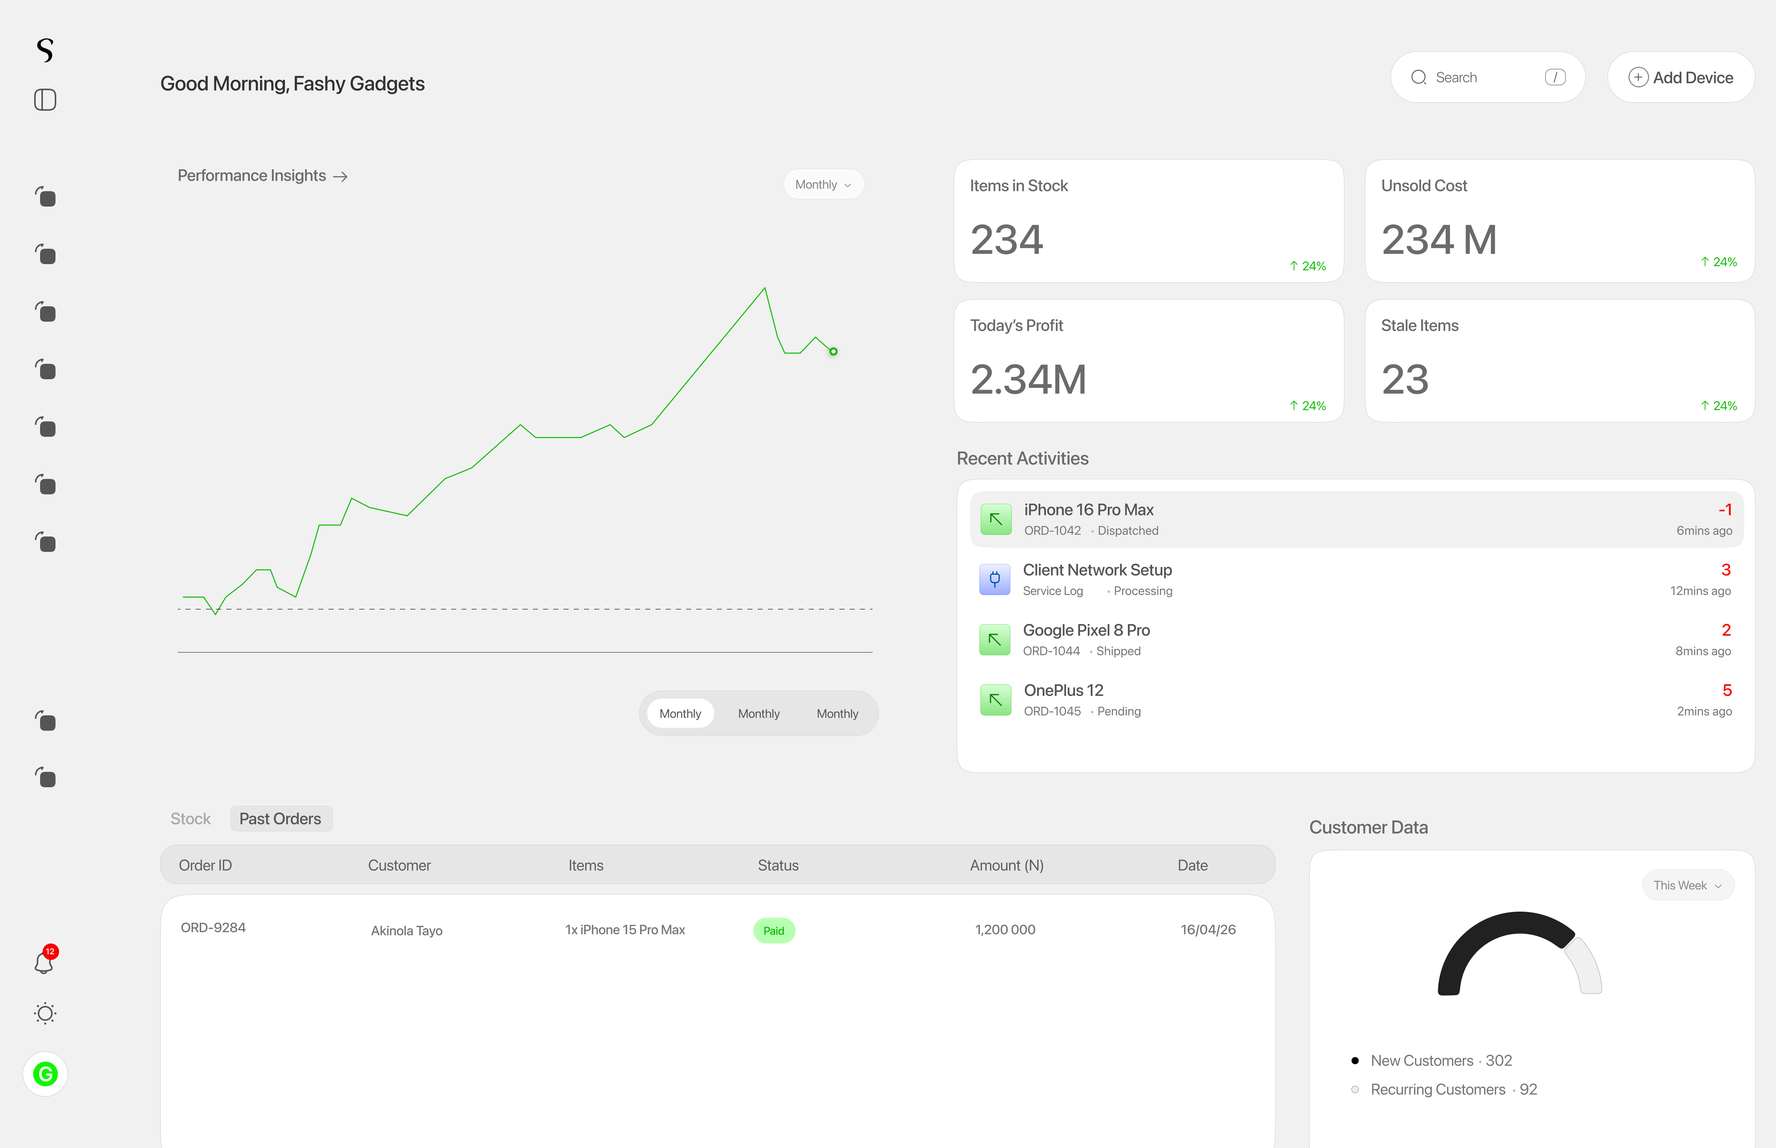
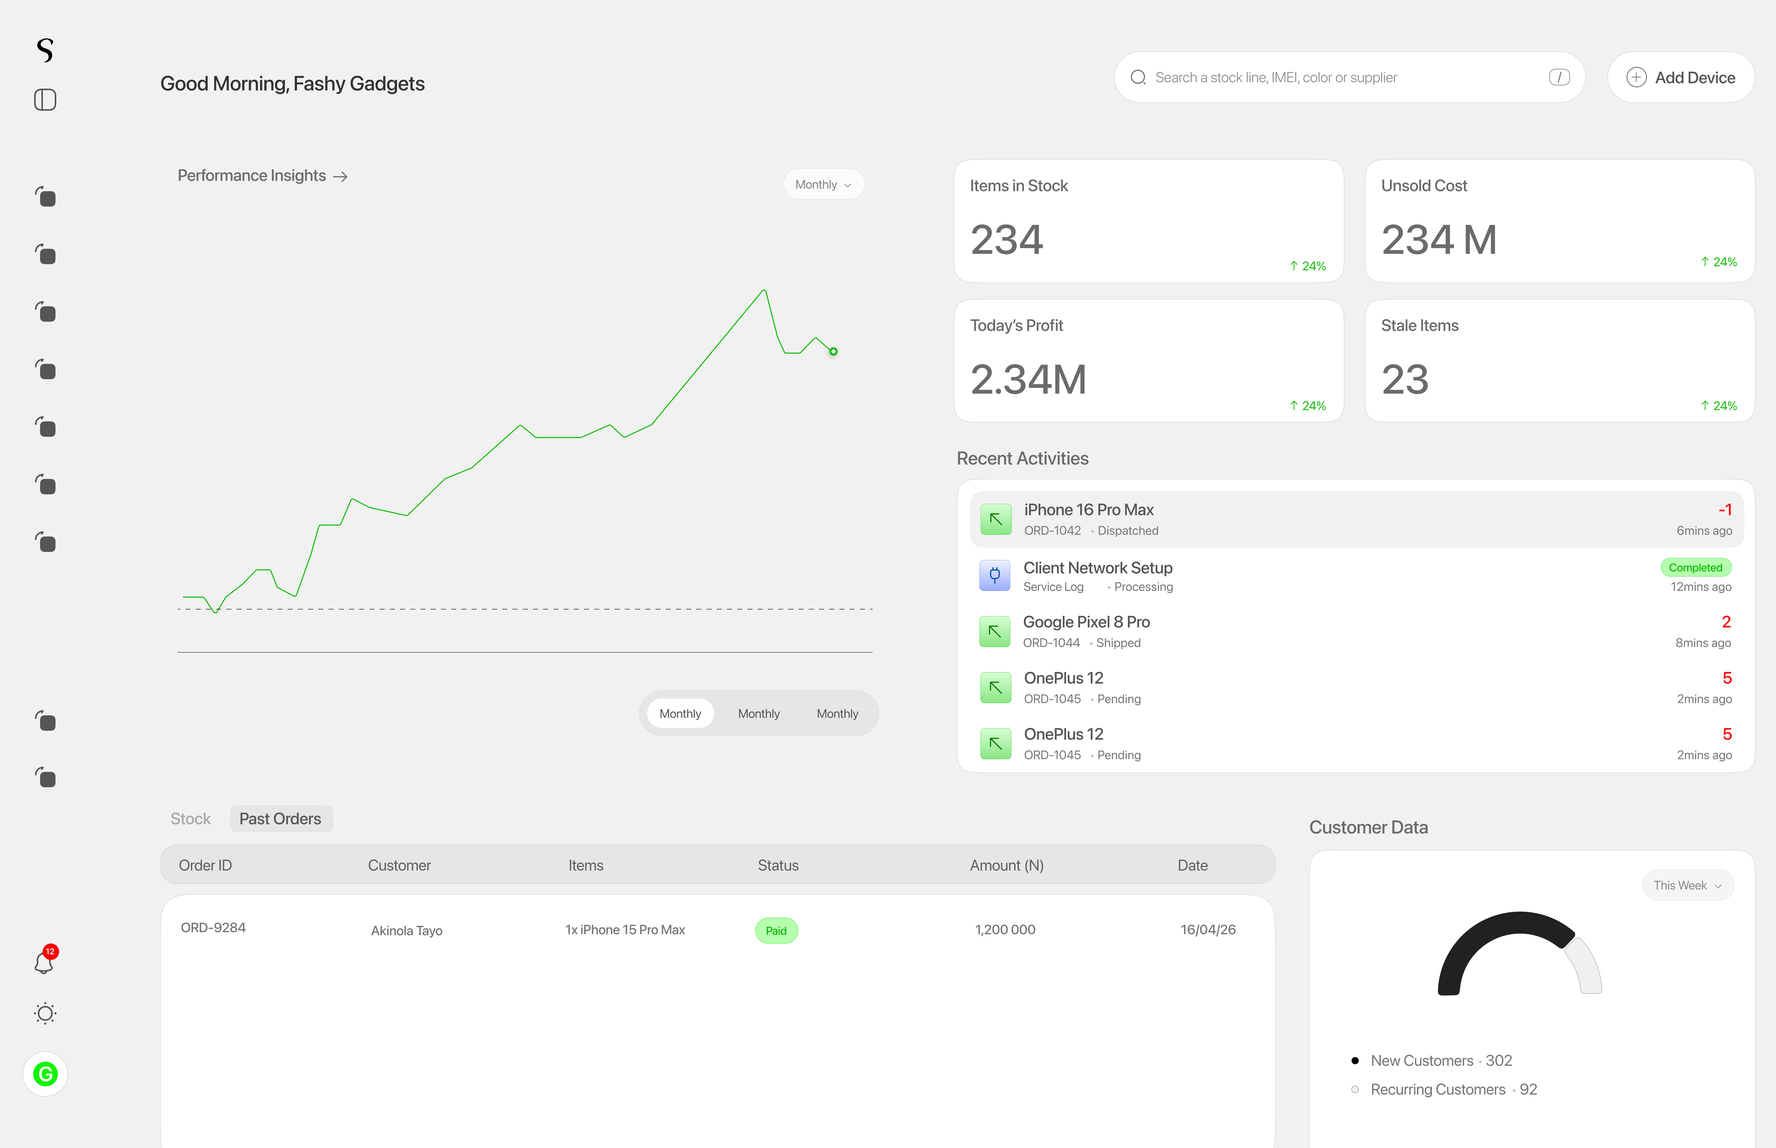
feat: update hero background and mockup, streamline features & about copy, and update CTA to Get Started

diff --git a/src/components/Features/KeepMovingSection.tsx b/src/components/Features/KeepMovingSection.tsx
@@ -25,26 +25,25 @@ export const KeepMovingSection: React.FC = () => {
         {/* Section Header */}
         <div className="flex flex-col items-center text-center max-w-[620px] mx-auto mb-12 md:mb-20">
           <h2 className="text-[#121316] font-medium tracking-tight text-[28px] sm:text-[36px] md:text-[42px] leading-[1.1] mb-4">
-            Everything your store does, in one place
+            Built for successful gadget stores
           </h2>
           <p className="text-gray-500 text-[16px] sm:text-[18px] leading-[1.6]">
-            From scanning an IMEI to settling supplier debt, from customer receipts to price adjustments — Suite tracks it all so nothing slips through the counter.
+            Track stock by IMEI, close sales faster at the counter, and see your daily profits clearly across every branch.
           </p>
         </div>
 
         {/* 3-Card Grid with Active/Inactive Mobile Accordion & Desktop Highlights */}
         <div className="grid grid-cols-1 md:grid-cols-3 gap-5 sm:gap-6 lg:gap-8 items-stretch">
 
-          {/* Card 0: Everyone on their own login */}
+          {/* Card 0: Smart team permissions */}
           <div
             onClick={() => setActiveCard(0)}
-            className={`bg-white rounded-[28px] p-6 sm:p-8 flex flex-col justify-between transition-all duration-300 cursor-pointer ${
-              activeCard === 0
+            className={`bg-white rounded-[28px] p-6 sm:p-8 flex flex-col justify-between transition-all duration-300 cursor-pointer ${activeCard === 0
                 ? 'border-2 border-[#858585] shadow-[0_8px_30px_rgba(133,133,133,0.12)]'
                 : 'border border-gray-200/80 shadow-[0_2px_12px_rgba(0,0,0,0.02)] hover:border-[#858585]/50'
-            }`}
+              }`}
           >
-            {/* Top Interactive Toggle List: Hidden on mobile when inactive, visible when active or on desktop */}
+            {/* Top Interactive Toggle List */}
             <div className={`${activeCard === 0 ? 'block' : 'hidden md:block'} bg-[#FAF9F7]/80 rounded-2xl p-4 mb-6 sm:mb-8 border border-gray-100 space-y-3 transition-all duration-200`}>
 
               {/* Row 1 */}
@@ -55,7 +54,7 @@ export const KeepMovingSection: React.FC = () => {
                   </div>
                   <div className="min-w-0">
                     <div className="text-[13px] font-medium text-gray-800 leading-none mb-1 truncate">Chuka</div>
-                    <div className="text-[11px] text-gray-400 truncate">Sells, cannot change a price</div>
+                    <div className="text-[11px] text-gray-400 truncate">Sales rep · Counter sales</div>
                   </div>
                 </div>
                 <div className="flex items-center gap-2 shrink-0">
@@ -73,7 +72,7 @@ export const KeepMovingSection: React.FC = () => {
                 </div>
               </div>
 
-              {/* Row 2: highlighted, with who added them */}
+              {/* Row 2 */}
               <div className="flex items-center justify-between gap-3 bg-white p-2.5 rounded-xl border border-gray-100 shadow-sm">
                 <div className="flex items-center gap-2.5 min-w-0">
                   <div className="w-7 h-7 rounded-lg bg-gray-100 text-[#858585] flex items-center justify-center shrink-0">
@@ -81,10 +80,10 @@ export const KeepMovingSection: React.FC = () => {
                   </div>
                   <div className="min-w-0">
                     <div className="text-[13px] font-medium text-gray-800 leading-none mb-1 truncate">Amina</div>
-                    <div className="text-[11px] text-gray-400 truncate mb-1">Manager — approves below floor</div>
+                    <div className="text-[11px] text-gray-400 truncate mb-1">Store manager · Special deals</div>
                     <div className="inline-flex items-center gap-1 bg-gray-100 px-1.5 py-0.5 rounded text-[10px] text-gray-600 font-medium">
                       <span className="w-3 h-3 rounded-full bg-amber-200 overflow-hidden text-[8px] flex items-center justify-center">👤</span>
-                      <span>Added by Owner</span>
+                      <span>Owner verified</span>
                     </div>
                   </div>
                 </div>
@@ -103,7 +102,7 @@ export const KeepMovingSection: React.FC = () => {
                 </div>
               </div>
 
-              {/* Row 3: switched off rather than removed */}
+              {/* Row 3 */}
               <div className="flex items-center justify-between gap-3">
                 <div className="flex items-center gap-2.5 min-w-0">
                   <div className="w-7 h-7 rounded-lg bg-gray-200/70 flex items-center justify-center text-gray-500 shrink-0">
@@ -111,7 +110,7 @@ export const KeepMovingSection: React.FC = () => {
                   </div>
                   <div className="min-w-0">
                     <div className="text-[13px] font-medium text-gray-800 leading-none mb-1 truncate">Tunde</div>
-                    <div className="text-[11px] text-gray-400 truncate">Left the shop — access off</div>
+                    <div className="text-[11px] text-gray-400 truncate">Inventory lead · Stock intake</div>
                   </div>
                 </div>
                 <div className="flex items-center gap-2 shrink-0">
@@ -134,33 +133,32 @@ export const KeepMovingSection: React.FC = () => {
             {/* Content Copy */}
             <div>
               <h3 className="text-gray-900 font-semibold text-[18px] sm:text-[19px] mb-2 tracking-tight">
-                Staff access, your rules
+                Smart team permissions
               </h3>
               <p className="text-gray-500 text-[14px] sm:text-[14.5px] leading-relaxed">
-                A rep can sell but not change a price. Discounts below the floor need a manager. Someone who leaves is disabled — their transactions stay in the record exactly as they happened.
+                Empower your sales reps to close deals while keeping full control over pricing, discount approvals, and store records.
               </p>
             </div>
           </div>
 
-          {/* Card 1: Works when the network doesn't */}
+          {/* Card 1: Live stock accuracy */}
           <div
             onClick={() => setActiveCard(1)}
-            className={`bg-white rounded-[28px] p-6 sm:p-8 flex flex-col justify-between transition-all duration-300 cursor-pointer ${
-              activeCard === 1
+            className={`bg-white rounded-[28px] p-6 sm:p-8 flex flex-col justify-between transition-all duration-300 cursor-pointer ${activeCard === 1
                 ? 'border-2 border-[#858585] shadow-[0_8px_30px_rgba(133,133,133,0.12)]'
                 : 'border border-gray-200/80 shadow-[0_2px_12px_rgba(0,0,0,0.02)] hover:border-[#858585]/50'
-            }`}
+              }`}
           >
-            {/* Illustration: Hidden on mobile when inactive, visible when active or on desktop */}
+            {/* Illustration */}
             <div className={`${activeCard === 1 ? 'block' : 'hidden md:block'} bg-[#FAF9F7]/80 rounded-2xl p-5 mb-6 sm:mb-8 border border-gray-100 min-h-[160px] flex flex-col justify-center gap-3 transition-all duration-200`}>
               <div className="flex items-start gap-3 bg-white p-3 rounded-xl border border-gray-100 shadow-sm">
-                <div className="w-7 h-7 rounded-lg bg-gray-100 text-[#858585] flex items-center justify-center shrink-0">
-                  <CloudOff className="w-4 h-4" />
+                <div className="w-7 h-7 rounded-lg bg-emerald-50 text-emerald-600 flex items-center justify-center shrink-0">
+                  <CloudOff className="w-4 h-4 text-emerald-600" />
                 </div>
                 <div>
-                  <div className="text-[12.5px] font-medium text-gray-800">No network</div>
+                  <div className="text-[12.5px] font-medium text-gray-800">Always-on sales mode</div>
                   <div className="text-[11px] text-gray-500 mt-0.5">
-                    6 sales waiting. They go up the moment you are back.
+                    Sales record smoothly offline. Syncs instantly the second you reconnect.
                   </div>
                 </div>
               </div>
@@ -169,32 +167,31 @@ export const KeepMovingSection: React.FC = () => {
             {/* Content Copy */}
             <div>
               <h3 className="text-gray-900 font-semibold text-[18px] sm:text-[19px] mb-2 tracking-tight">
-                Inventory that updates itself
+                Live stock accuracy
               </h3>
               <p className="text-gray-500 text-[14px] sm:text-[14.5px] leading-relaxed">
-                Every gadget — iPhone, MacBook, AirPods, power bank — tracked by IMEI or serial. Sell one unit and the count drops everywhere instantly. No end-of-day manual tallies.
+                Every phone, laptop, and accessory tracked by IMEI. Make a sale and stock counts update across all branches in real time.
               </p>
             </div>
           </div>
 
-          {/* Card 2: Says what went wrong, in your words */}
+          {/* Card 2: Instant receipts & customer loyalty */}
           <div
             onClick={() => setActiveCard(2)}
-            className={`bg-white rounded-[28px] p-6 sm:p-8 flex flex-col justify-between transition-all duration-300 cursor-pointer ${
-              activeCard === 2
+            className={`bg-white rounded-[28px] p-6 sm:p-8 flex flex-col justify-between transition-all duration-300 cursor-pointer ${activeCard === 2
                 ? 'border-2 border-[#858585] shadow-[0_8px_30px_rgba(133,133,133,0.12)]'
                 : 'border border-gray-200/80 shadow-[0_2px_12px_rgba(0,0,0,0.02)] hover:border-[#858585]/50'
-            }`}
+              }`}
           >
-            {/* Illustration: Hidden on mobile when inactive, visible when active or on desktop */}
+            {/* Illustration */}
             <div className={`${activeCard === 2 ? 'block' : 'hidden md:block'} bg-[#FAF9F7]/80 rounded-2xl p-5 mb-6 sm:mb-8 border border-gray-100 min-h-[160px] flex flex-col justify-center gap-3 transition-all duration-200`}>
               <div className="bg-white p-3 rounded-xl border border-gray-100 shadow-sm">
                 <div className="flex items-center gap-2 mb-1.5">
-                  <AlertTriangle className="w-3.5 h-3.5 text-amber-500" />
-                  <span className="text-[12px] font-medium text-gray-800">This unit was already sold</span>
+                  <ShieldCheck className="w-3.5 h-3.5 text-emerald-600" />
+                  <span className="text-[12px] font-medium text-gray-800">Verified IMEI sale</span>
                 </div>
                 <div className="text-[11px] text-gray-500">
-                  "Two sales were recorded for one handset. Check with the other till which one happened first."
+                  "Serial verified · Instant WhatsApp receipt sent to customer."
                 </div>
               </div>
             </div>
@@ -202,10 +199,10 @@ export const KeepMovingSection: React.FC = () => {
             {/* Content Copy */}
             <div>
               <h3 className="text-gray-900 font-semibold text-[18px] sm:text-[19px] mb-2 tracking-tight">
-                Receipts, debts and history — all linked
+                Instant receipts & customer credit
               </h3>
               <p className="text-gray-500 text-[14px] sm:text-[14.5px] leading-relaxed">
-                Every sale generates a customer receipt. Every supplier delivery updates the debt ledger. Every price change is logged. Pull up any transaction, any time, from any device.
+                Send professional receipts on WhatsApp or print them. Track customer credit, supplier accounts, and profit in one clean ledger.
               </p>
             </div>
           </div>

diff --git a/src/components/WhySuite/WhySuiteSection.tsx b/src/components/WhySuite/WhySuiteSection.tsx
@@ -39,14 +39,14 @@ export const WhySuiteSection: React.FC = () => {
         {/* Section Title */}
         <div className="max-w-[620px] mb-12 md:mb-24">
           <h2 className="text-[#121316] font-medium tracking-tight text-[28px] sm:text-[36px] md:text-[44px] leading-[1.1] mb-4">
-            How is Suite different<br className="hidden sm:inline"/>from <span className="text-gray-400">spreadsheets</span>
+            Why Nigeria's top gadget stores<br className="hidden sm:inline"/> run on <span className="text-[#121316]">Suite</span>
           </h2>
           <p className="text-gray-500 text-[16px] sm:text-[18px] leading-[1.6]">
-            A sheet does not know that the row you are typing is a handset somebody already sold on the other till. Suite does, and it says so before the money changes hands.
+            Suite tracks your IMEIs in real time, logs every counter sale, manages customer credit, and calculates your daily profits with complete clarity.
           </p>
         </div>
 
-        {/* 3 Columns (Desktop grid, responsive on mobile) - All same size matching Tools */}
+        {/* 3 Columns (Desktop grid, responsive on mobile) */}
         <div className="w-full grid grid-cols-1 md:grid-cols-3 gap-8 lg:gap-10 items-stretch justify-center relative z-10 max-w-[1140px] mx-auto">
 
           {/* Column 1: One system */}
@@ -61,27 +61,27 @@ export const WhySuiteSection: React.FC = () => {
                 <span className="bg-white shadow-sm border border-gray-100 rounded-full px-4 py-2 text-[14px] text-gray-700 font-medium">Suppliers</span>
               </div>
             </div>
-            <span className="text-[17px] text-gray-700 font-medium tracking-tight">One system</span>
+            <span className="text-[17px] text-gray-700 font-medium tracking-tight">All-in-one platform</span>
           </div>
 
           {/* Column 2: Activity — who changed what */}
           <div className="flex flex-col items-center w-full">
             <div className="w-full bg-[#FAF9F7]/90 border-[0.5px] border-[#e8e8e8] rounded-[28px] p-6 sm:p-8 h-[280px] sm:h-[300px] md:h-[320px] flex flex-col items-center justify-center relative mb-5 gap-3 shadow-[0_2px_12px_rgba(0,0,0,0.02)]">
               <div className="bg-white shadow-sm border border-gray-100 rounded-xl p-3.5 text-[13px] text-gray-400 w-full max-w-[260px] text-left">
-                Who dropped the floor on that Pro Max?
+                Who approved the special deal on this iPhone?
               </div>
               <div className="bg-white shadow-sm border border-gray-100 rounded-xl p-3.5 text-[13px] text-gray-700 w-full max-w-[260px] text-left flex items-center gap-2.5">
                 <div className="w-5 h-5 rounded-full bg-blue-100 flex items-center justify-center text-blue-500 shrink-0">
                   <BookOpen className="w-3.5 h-3.5" />
                 </div>
-                <span className="font-medium">Chuka, Tuesday 4:12pm.</span>
+                <span className="font-medium">Chuka · Tuesday 4:12 PM</span>
               </div>
               <div className="bg-white/90 shadow-sm border border-gray-100 rounded-xl px-3 py-1.5 text-[11px] text-gray-500 w-fit self-start ml-2 sm:ml-4 flex items-center gap-1.5">
                 <User className="w-3 h-3 text-gray-400" />
-                <span>₦950,000 → ₦900,000 · “Clearing slow stock”</span>
+                <span>₦950,000 → ₦900,000 · “VIP customer deal”</span>
               </div>
             </div>
-            <span className="text-[17px] text-gray-700 font-medium tracking-tight">Activity</span>
+            <span className="text-[17px] text-gray-700 font-medium tracking-tight">Verified activity log</span>
           </div>
 
           {/* Column 3: What it records */}
@@ -101,14 +101,13 @@ export const WhySuiteSection: React.FC = () => {
                 ))}
               </div>
             </div>
-            <span className="text-[17px] text-gray-700 font-medium tracking-tight">What it records</span>
+            <span className="text-[17px] text-gray-700 font-medium tracking-tight">Made for gadget retail</span>
           </div>
 
         </div>
 
-        {/* Connector: everything above converges into one set of books */}
+        {/* Connector */}
         <div className="mt-8 md:mt-14 flex flex-col items-center w-full max-w-[420px]">
-          {/* Vertical line on mobile, curved SVG on desktop */}
           <div className="w-[1px] h-10 bg-gray-300 md:hidden my-2" />
 
           <svg width="480" height="50" viewBox="0 0 480 50" fill="none" xmlns="http://www.w3.org/2000/svg" className="hidden md:block mb-5">
@@ -118,14 +117,14 @@ export const WhySuiteSection: React.FC = () => {
           </svg>
 
           <div className="text-[12px] text-gray-400 font-medium tracking-tight mb-3">
-            It all adds up to...
+            Always in sync...
           </div>
 
           <div className="w-full sm:w-auto bg-[#F2F8F5] border border-[#A7F3D0] text-[#047857] text-[16px] sm:text-[17px] font-semibold px-8 py-3.5 rounded-full shadow-sm flex items-center justify-center gap-3">
             <div className="w-6 h-6 rounded-full bg-[#059669] flex items-center justify-center text-white">
               <BookOpen className="w-3.5 h-3.5" />
             </div>
-            <span>One set of books</span>
+            <span>One clean, profitable ledger</span>
           </div>
         </div>
 

diff --git a/src/components/Hero/Hero.tsx b/src/components/Hero/Hero.tsx
@@ -1,7 +1,8 @@
 import React, { useState } from 'react';
 import { ArrowRight } from 'lucide-react';
 import { MaskedRotator } from './MaskedRotator';
-import { ProductDashboard } from './ProductDashboard';
+import suiteBg from '../../assets/suite-bg.png';
+import macbookImg from '../../assets/macbook-5.png';
 
 export interface HeroProps {
   onOpenSignUp: (email?: string) => void;
@@ -112,9 +113,16 @@ export const Hero: React.FC<HeroProps> = ({ onOpenSignUp, onNavigateSection }) =
           </div>
 
           {/* Right Column: 58% on desktop (7 cols out of 12) */}
-          <div className="lg:col-span-7 flex items-center justify-center lg:justify-end w-full mt-4 lg:mt-0 relative scale-100 lg:scale-[1.1]">
-            <div className="w-full p-3.5 sm:p-5 md:p-6 bg-gradient-to-br from-[#EEF4FB] via-[#F4F7FB] to-[#F7F5F0] rounded-[28px] border border-[#E4ECF4]">
-              <ProductDashboard />
+          <div className="lg:col-span-7 flex items-center justify-center lg:justify-end w-full mt-4 lg:mt-0 relative scale-100 lg:scale-[1.05]">
+            <div 
+              className="relative w-full rounded-[24px] sm:rounded-[28px] md:rounded-[32px] overflow-hidden border border-[#E4ECF4] shadow-lg p-3.5 sm:p-5 md:p-6 flex items-center justify-center bg-cover bg-center"
+              style={{ backgroundImage: `url(${suiteBg})` }}
+            >
+              <img 
+                src={macbookImg} 
+                alt="Suite Dashboard Preview" 
+                className="w-full h-auto block object-contain drop-shadow-2xl rounded-[12px] sm:rounded-[16px]"
+              />
             </div>
           </div>
 

diff --git a/src/components/ProseReveal/ProseReveal.tsx b/src/components/ProseReveal/ProseReveal.tsx
@@ -5,7 +5,7 @@ import { ScrollTrigger } from 'gsap/ScrollTrigger';
 gsap.registerPlugin(ScrollTrigger);
 
 const PROSE_PARAGRAPHS = [
-  'Same place for every gadget. Every transaction.',
+  ' Every transaction.',
   'From iPhones to MacBooks, Samsung, AirPods to power banks, every item is registered.',
   'Manage your gadgets and price changes, customers and their receipts, your suppliers and debts.',
   'Run your entire store from a single place.',
@@ -51,9 +51,9 @@ export const ProseReveal: React.FC = () => {
   }, []);
 
   return (
-    <section 
+    <section
       id="prose-reveal"
-      ref={sectionRef} 
+      ref={sectionRef}
       className="w-full py-24 sm:py-32 md:py-44 select-none relative z-10 px-5 sm:px-8"
     >
       <div className="mx-auto max-w-[880px] text-center">
@@ -61,11 +61,11 @@ export const ProseReveal: React.FC = () => {
           {PROSE_PARAGRAPHS.map((paragraph, pIdx) => {
             const words = paragraph.split(' ');
             return (
-              <p 
-                key={pIdx} 
+              <p
+                key={pIdx}
                 className="text-[24px] md:text-[36px] leading-[1.3] md:leading-[1.35] font-medium tracking-tight font-sans text-center"
-                style={{ 
-                  fontFamily: '-apple-system, BlinkMacSystemFont, "SF Pro Display", "SF Pro Text", "Segoe UI", Roboto, sans-serif' 
+                style={{
+                  fontFamily: '-apple-system, BlinkMacSystemFont, "SF Pro Display", "SF Pro Text", "Segoe UI", Roboto, sans-serif'
                 }}
               >
                 {words.map((word, wIdx) => (

diff --git a/src/components/Conversion/ConversionSection.tsx b/src/components/Conversion/ConversionSection.tsx
@@ -26,7 +26,7 @@ export const ConversionSection: React.FC<ConversionSectionProps> = ({ onOpenSign
             onClick={onOpenSignUp}
             className="group inline-flex items-center justify-center gap-2 bg-[#121316] hover:bg-[#000000] text-[#FAF9F6] text-[15px] font-medium tracking-tight rounded-full h-[46px] px-[24px] transition-all duration-200 shadow-md hover:shadow-xl active:scale-[0.98] cursor-pointer"
           >
-            <span>Sign Up</span>
+            <span>Get Started</span>
             <ArrowUpRight className="w-4 h-4 text-[#FAF9F6]/85 transition-transform duration-200 group-hover:translate-x-0.5 group-hover:-translate-y-0.5" />
           </button>
         </div>
